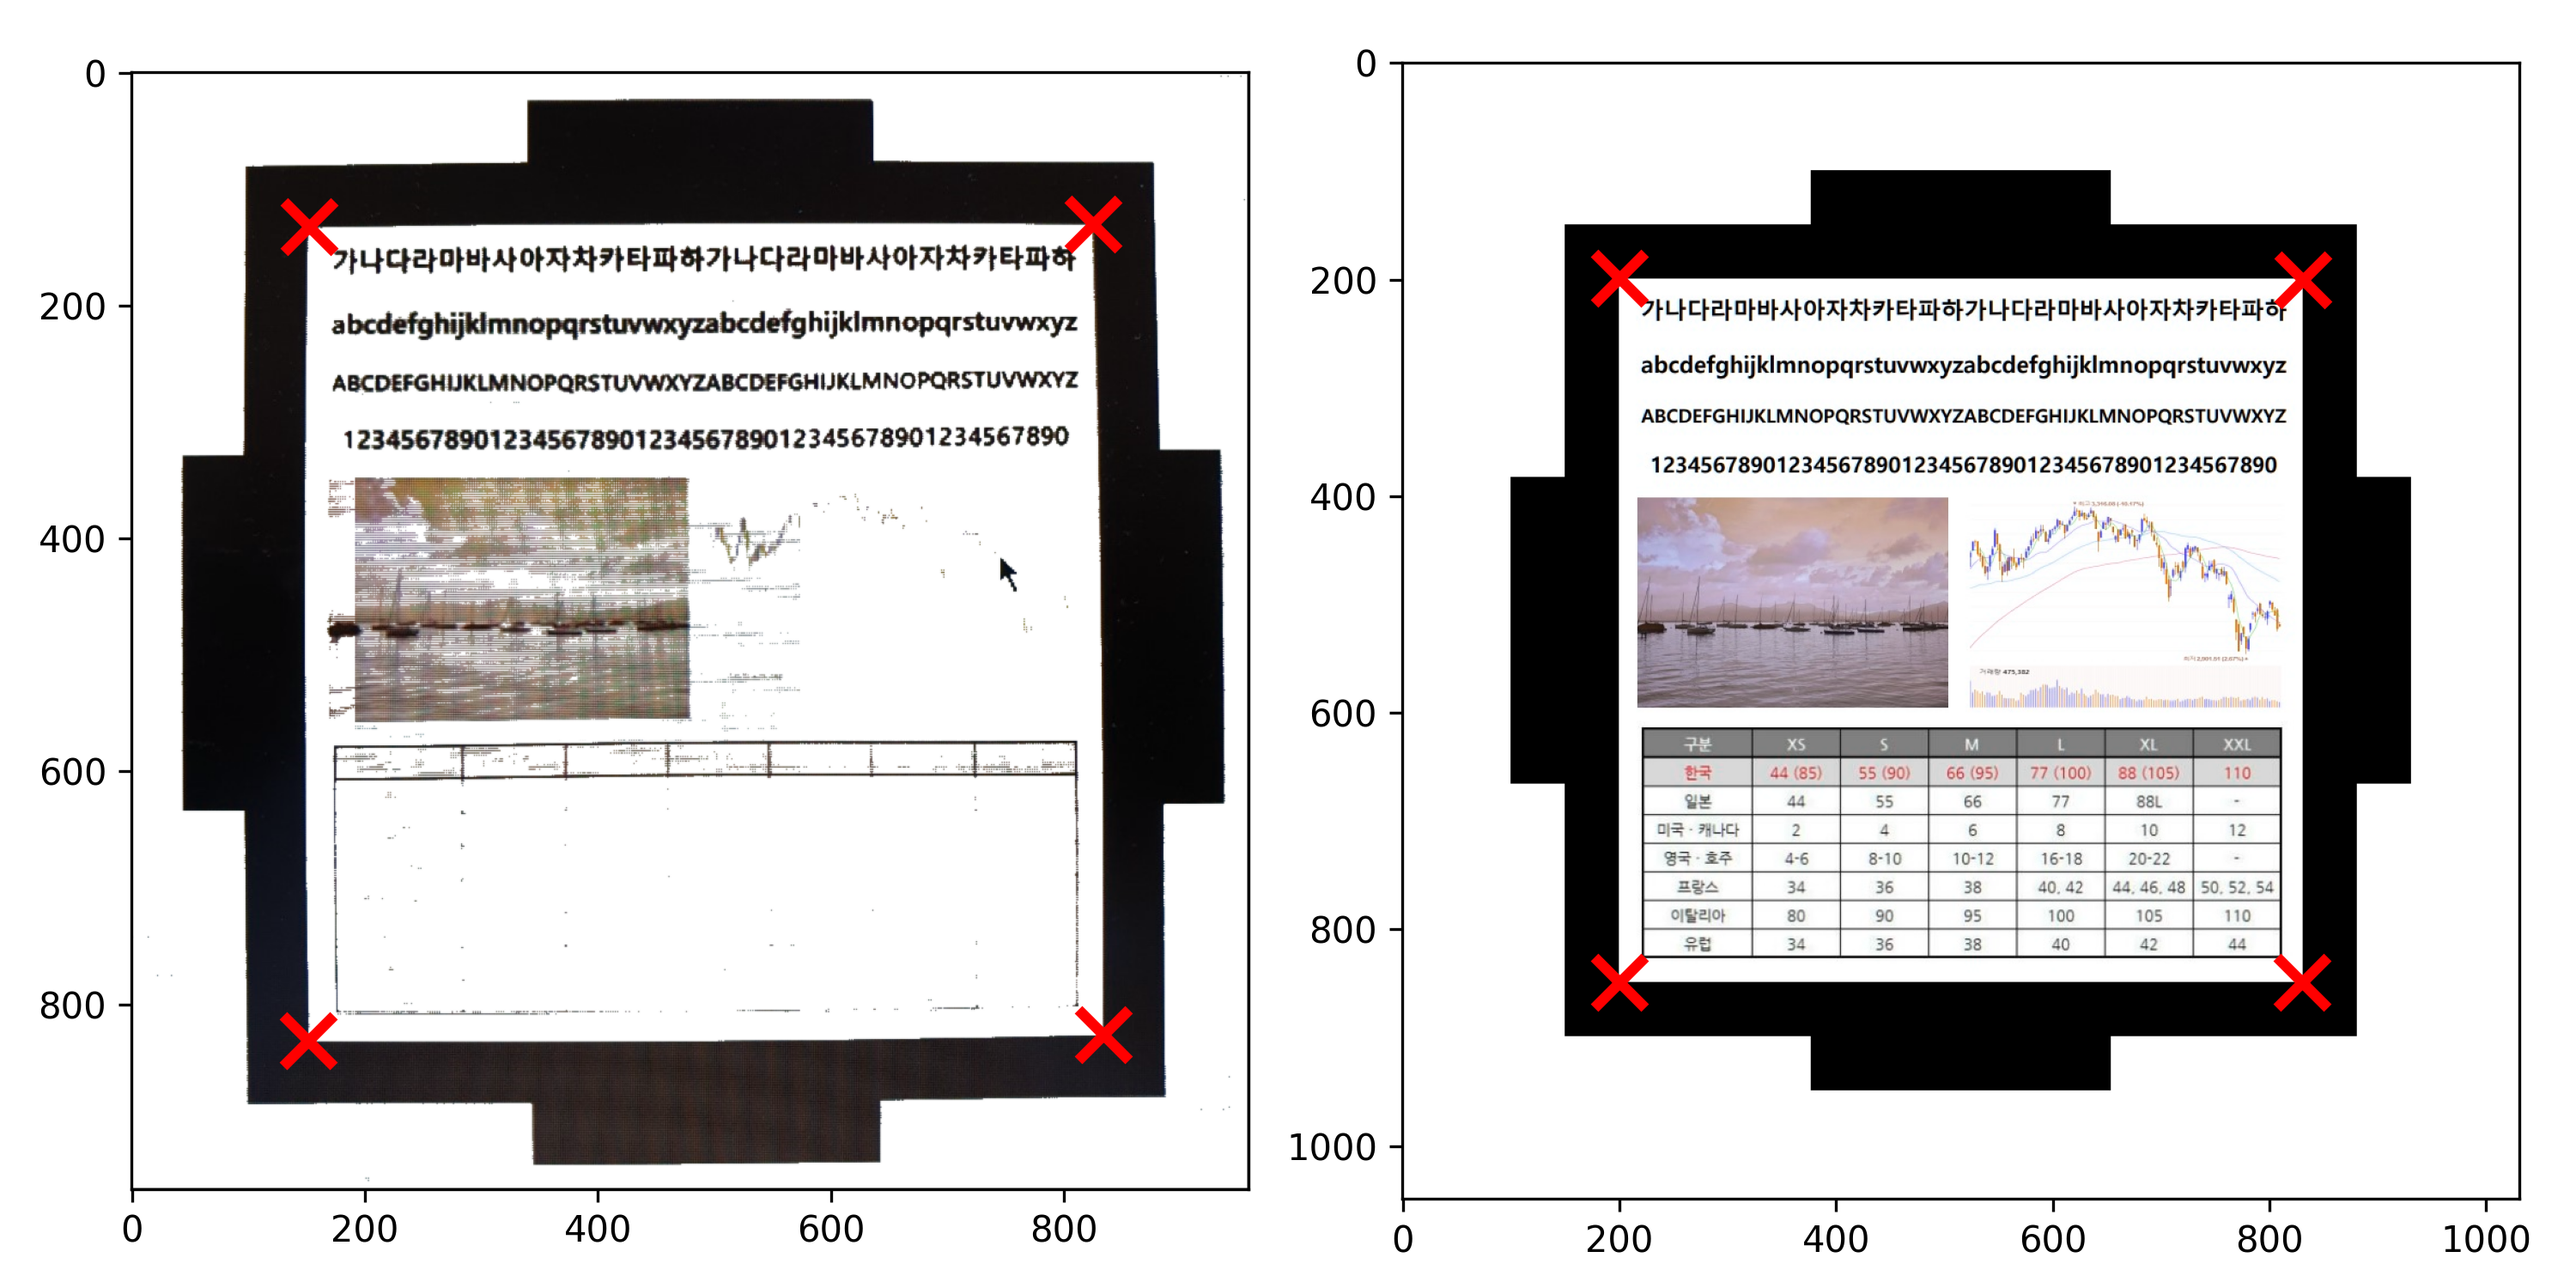
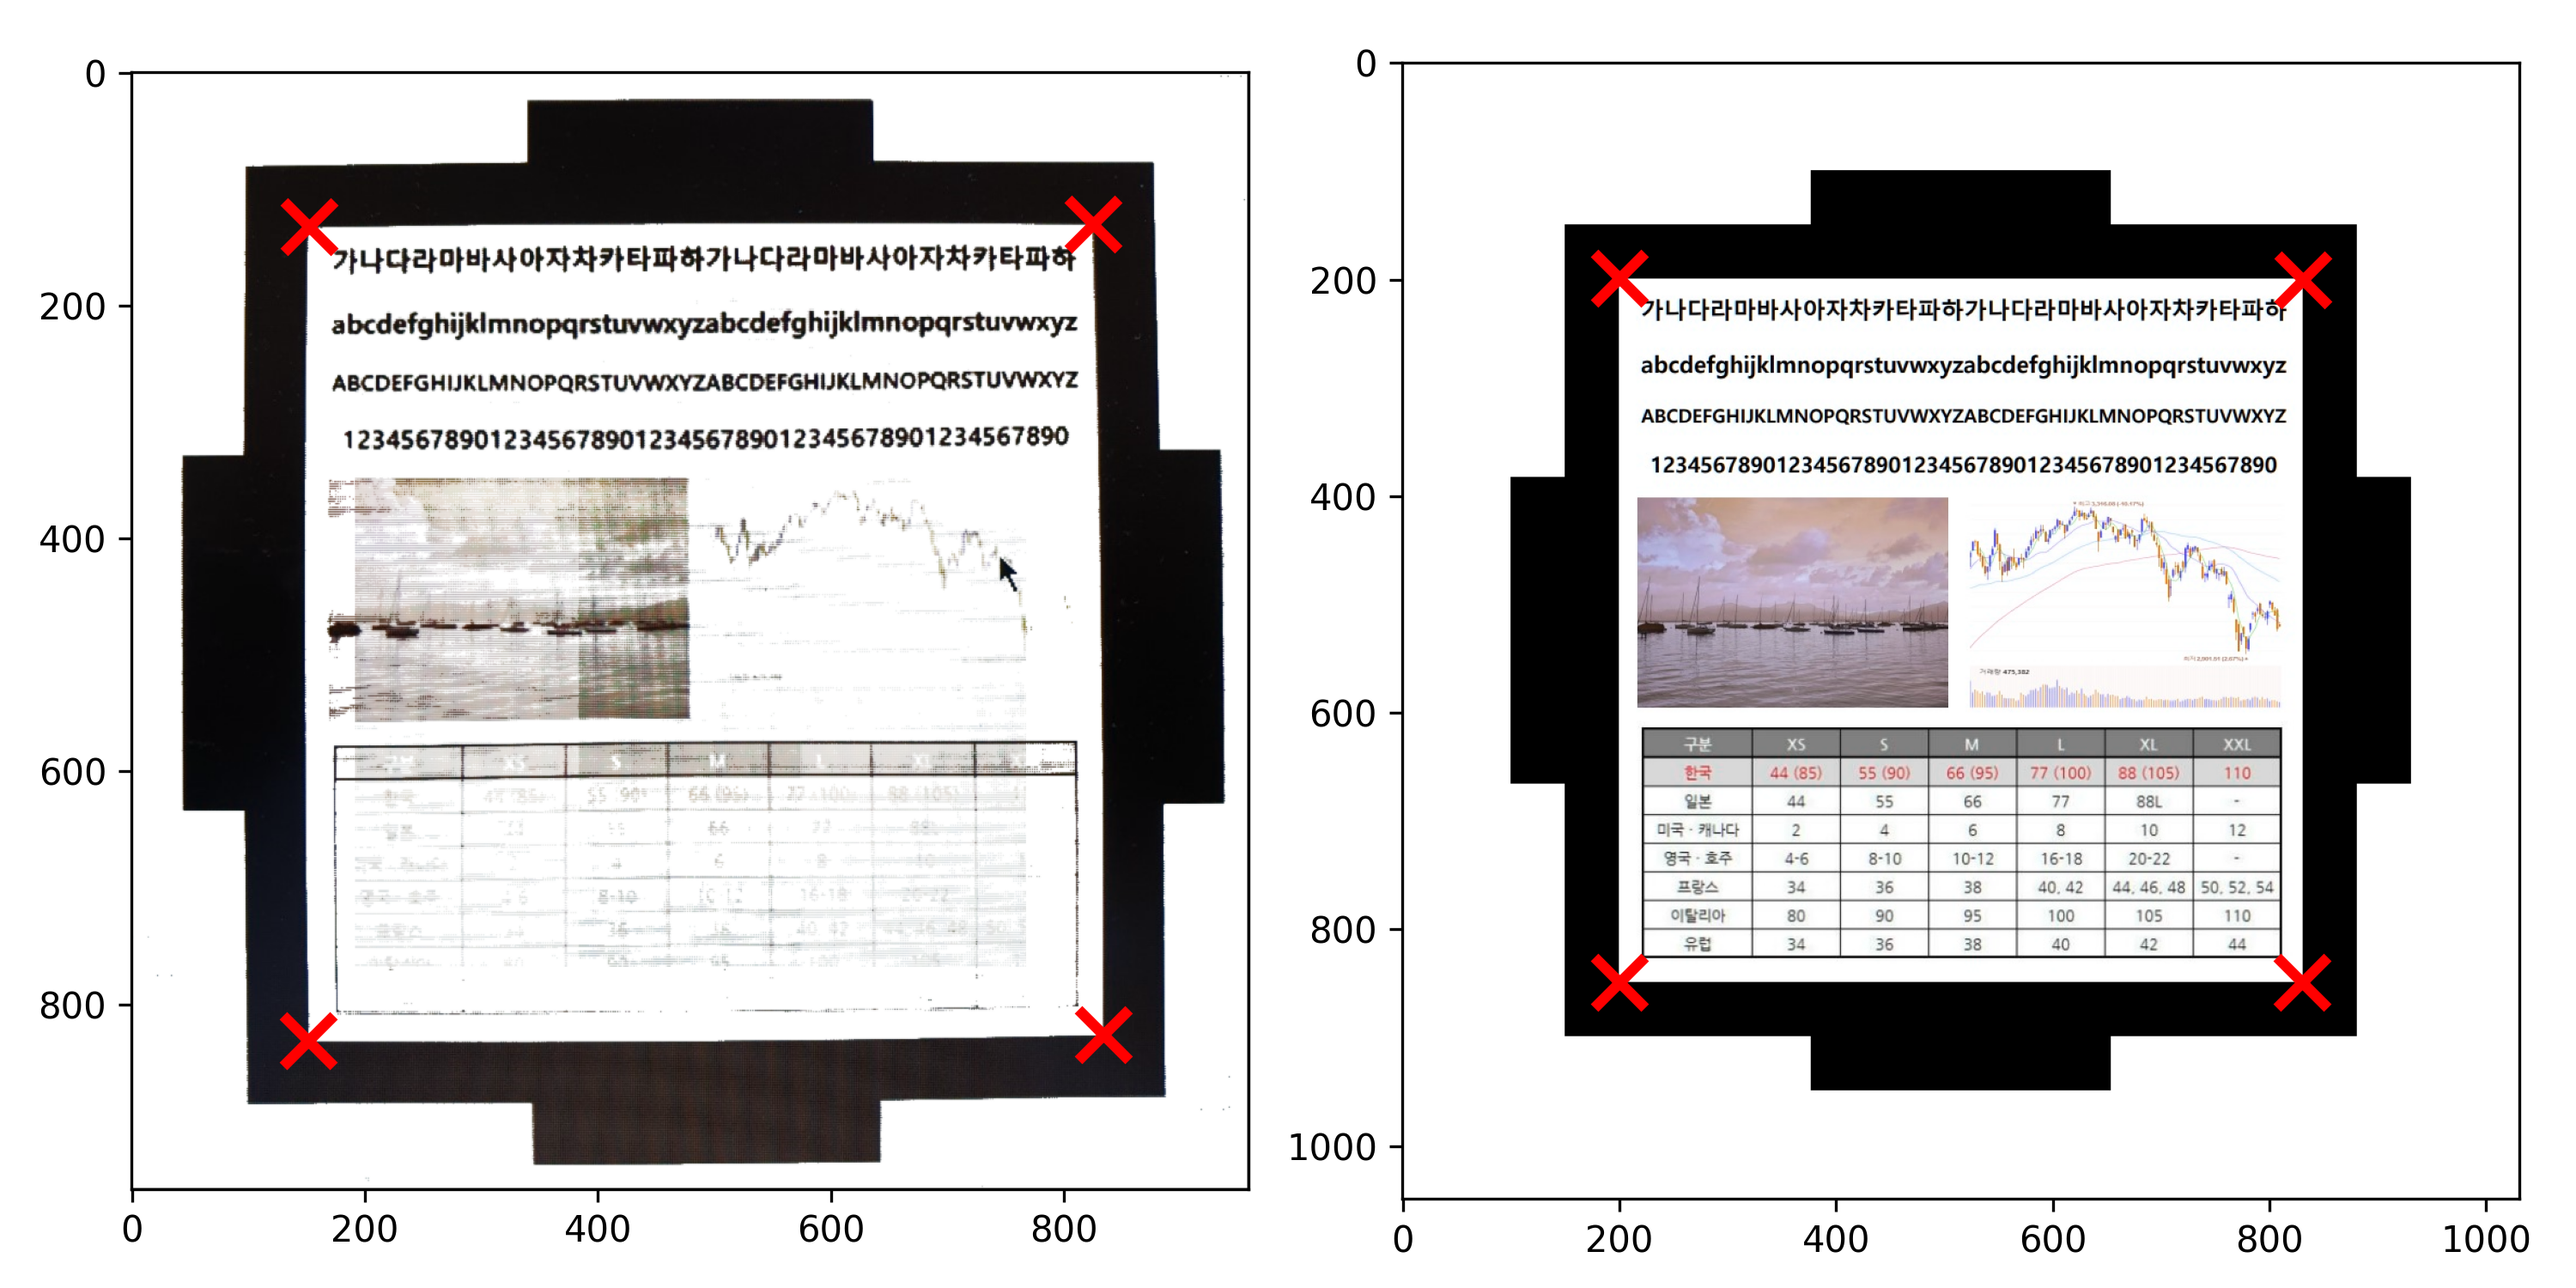
correct post process

Changed region(s): [[0.124, 0.3373, 0.403, 0.7667], [0.155, 0.2453, 0.217, 0.3067], [0.341, 0.3987, 0.372, 0.4293]]

diff --git a/impl/post_process/post_process.py b/impl/post_process/post_process.py
@@ -7,7 +7,8 @@ def main(info, datadir, resultdir):
     img_width, img_height = info[0][1]
 
     for i in range(1, level):
-        img_merge = np.empty(shape=(img_width, img_height, 3))
+        img_merge = np.empty(shape=(img_height, img_width, 3))
+        acc_array = np.empty(shape=(img_height, img_width, 3))
         nx, ny = info[i][0]
         partial_width, partial_height = info[i][1]
         stride = info[i][2]
@@ -19,12 +20,23 @@ def main(info, datadir, resultdir):
                     filename = str(i)+'-'+str(num)+'.png'
                     filepath = os.path.join(datadir, filename)
                     partial_image = cv2.imread(filepath,  cv2.IMREAD_COLOR)
+                    temp = np.empty(shape=(partial_width, partial_height))
                     if x == nx - 1:
+                        temp = img_merge[y * stride[1]: y * stride[1] + partial_height,\
+                                        img_width-1-partial_width:img_width-1]
+                        temp = (temp+partial_image)                         
                         img_merge[y * stride[1]: y * stride[1] + partial_height,\
-                                    img_width-1-partial_width:img_width-1] = partial_image
+                                img_width-1-partial_width:img_width-1] = temp
+                        acc_array[y * stride[1]: y * stride[1] + partial_height,\
+                                img_width-1-partial_width:img_width-1] += 1
                     else:
+                        temp = img_merge[y * stride[1]: y * stride[1] + partial_height,\
+                                        x * stride[0]: x * stride[0] + partial_width]
+                        temp = (temp+partial_image)
                         img_merge[y * stride[1]: y * stride[1] + partial_height,\
-                                    x * stride[0]: x * stride[0] + partial_width] = partial_image
+                                x * stride[0]: x * stride[0] + partial_width] = temp
+                        acc_array[y * stride[1]: y * stride[1] + partial_height,\
+                                x * stride[0]: x * stride[0] + partial_width] += 1
                     num += 1
             else:
                 for x in range(nx):
@@ -32,13 +44,23 @@ def main(info, datadir, resultdir):
                     filepath = os.path.join(datadir, filename)
                     partial_image = cv2.imread(filepath,  cv2.IMREAD_COLOR)
                     if x == nx - 1:
+                        temp = img_merge[img_height-1-partial_height:img_height-1,\
+                        img_width-1-partial_width:img_width-1]
+                        temp = (temp+partial_image)
                         img_merge[img_height-1-partial_height:img_height-1,\
-                        img_width-1-partial_width:img_width-1] = partial_image
+                                img_width-1-partial_width:img_width-1] = temp
+                        acc_array[img_height-1-partial_height:img_height-1,\
+                                img_width-1-partial_width:img_width-1] += 1
                     else:
+                        temp = img_merge[img_height-1-partial_height:img_height-1,\
+                        x * stride[0]: x * stride[0] + partial_width]
+                        temp = (temp+partial_image)
                         img_merge[img_height-1-partial_height:img_height-1,\
-                        x * stride[0]: x * stride[0] + partial_width] = partial_image
+                                x * stride[0]: x * stride[0] + partial_width] = temp
+                        acc_array[img_height-1-partial_height:img_height-1,\
+                                x * stride[0]: x * stride[0] + partial_width] += 1
                     num += 1
 
         result_name = 'clean'+str(i)+'.png'
         result_path = os.path.join(resultdir, result_name)
-        cv2.imwrite(result_path, img_merge)
+        cv2.imwrite(result_path, img_merge/acc_array)

diff --git a/impl/moprem.py b/impl/moprem.py
@@ -183,7 +183,7 @@ if __name__ == '__main__':
     print('2021 fall SNU computer vision project')
     print()
 
-    exclude = ['etc', '.ipynb_checkpoints', 'physics']
+    exclude = ['etc', '.ipynb_checkpoints']
     datadir = os.path.join(pardir, 'data')
     imgs = [dirname for dirname in next(os.walk(datadir))[1] if not (dirname in exclude)]
     imgs.sort()
